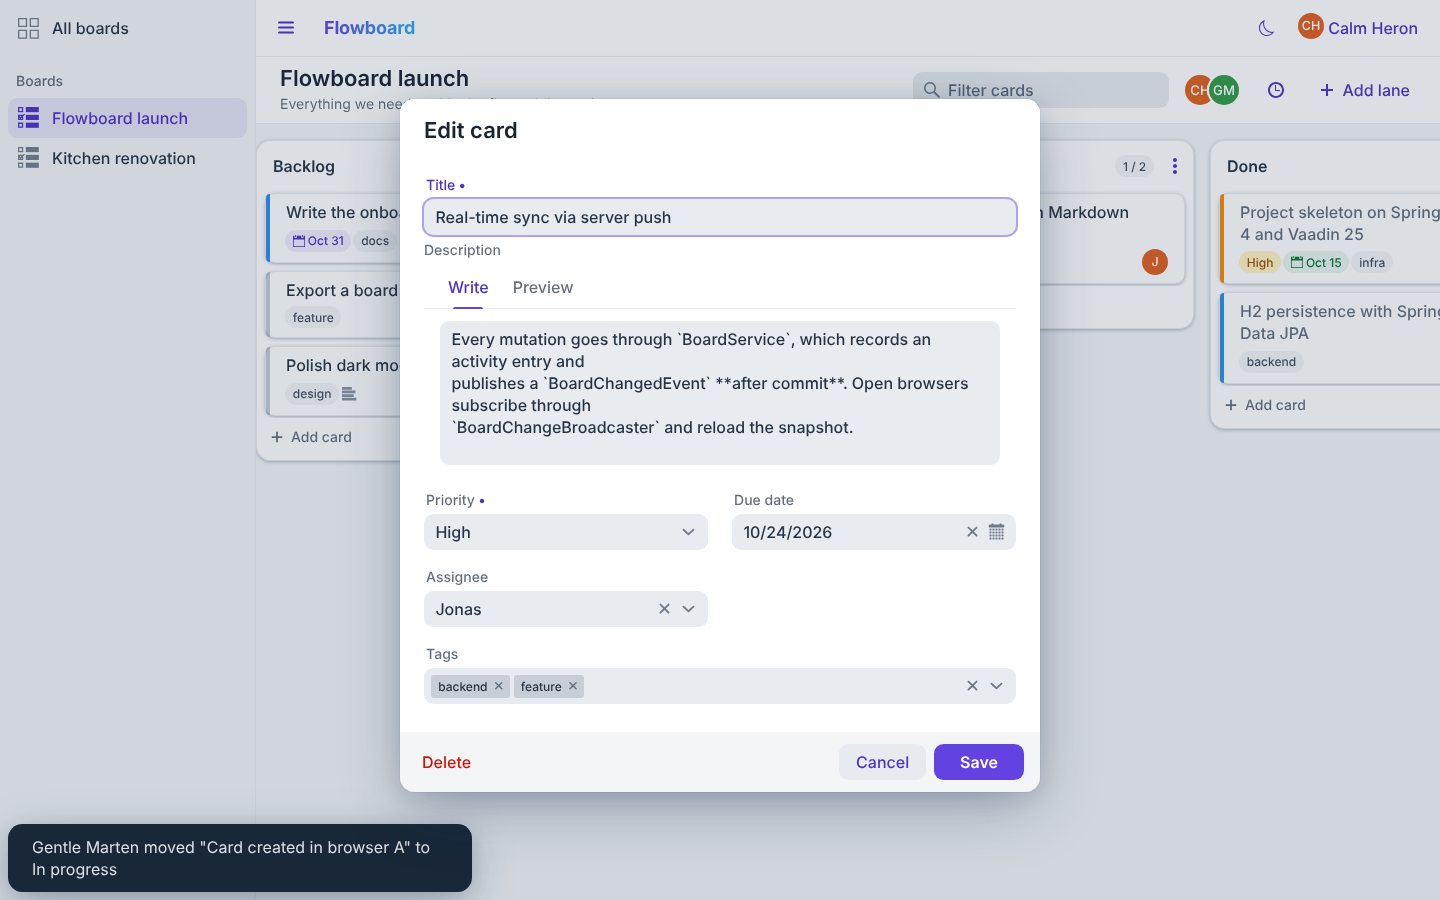
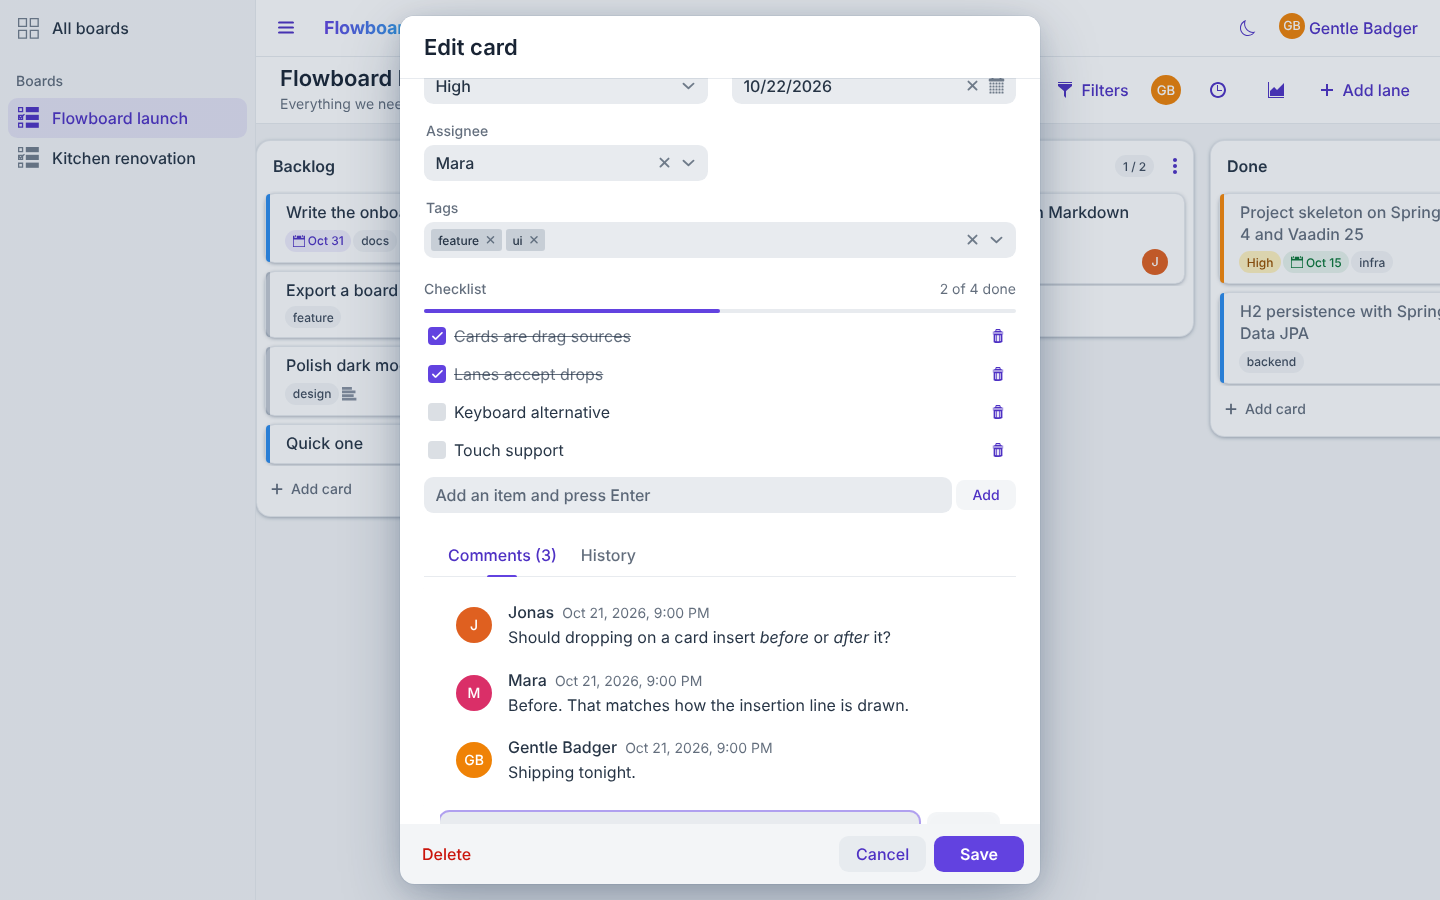
Add deep links to cards
board/{id}/card/{cardId} opens the card editor directly, the address
bar follows the open card, and the editor offers a copy-link action.

Claude-Session: https://claude.ai/code/session_01MrvthHf1AzktnPcG6NF27K

diff --git a/src/main/java/dev/gatzka/flowboard/ui/board/CardEditorDialog.java b/src/main/java/dev/gatzka/flowboard/ui/board/CardEditorDialog.java
@@ -12,6 +12,7 @@ import com.vaadin.flow.component.dialog.Dialog;
 import com.vaadin.flow.component.formlayout.FormLayout;
 import com.vaadin.flow.component.html.Div;
 import com.vaadin.flow.component.html.Span;
+import com.vaadin.flow.component.icon.VaadinIcon;
 import com.vaadin.flow.component.markdown.Markdown;
 import com.vaadin.flow.component.select.Select;
 import com.vaadin.flow.component.tabs.Tab;
@@ -27,6 +28,7 @@ import dev.gatzka.flowboard.domain.CardDraft;
 import dev.gatzka.flowboard.domain.CardSnapshot;
 import dev.gatzka.flowboard.domain.LaneSnapshot;
 import dev.gatzka.flowboard.domain.Priority;
+import dev.gatzka.flowboard.ui.support.Toasts;
 import java.util.ArrayList;
 import java.util.LinkedHashSet;
 import java.util.List;
@@ -49,6 +51,7 @@ final class CardEditorDialog extends Dialog {
     private final List<String> assigneeOptions;
     private final List<String> tagOptions;
     private final Consumer<CardDraft> onSave;
+    private final BoardSnapshot board;
     private Long cardId;
     private ChecklistSection checklistSection;
     private CommentsSection commentsSection;
@@ -97,6 +100,11 @@ final class CardEditorDialog extends Dialog {
     private void addCardSections(CardSnapshot card, CardEditorActions actions) {
         this.cardId = card.id();
         this.actions = actions;
+        Button copyLink = new Button(VaadinIcon.LINK.create(), event -> copyLink(card));
+        copyLink.addThemeVariants(ButtonVariant.LUMO_TERTIARY, ButtonVariant.LUMO_ICON);
+        copyLink.setAriaLabel("Copy link to this card");
+        copyLink.setTooltipText("Copy link");
+        getHeader().add(copyLink);
         checklistSection = new ChecklistSection(card, actions, this::refresh);
         commentsSection = new CommentsSection(card, actions, this::refresh);
         historySection = new HistorySection(actions.history(card.id()));
@@ -110,12 +118,19 @@ final class CardEditorDialog extends Dialog {
         add(checklistSection, tabs);
     }
 
+    private void copyLink(CardSnapshot card) {
+        String path = BoardView.pathTo(board.id(), card.id());
+        getUI().ifPresent(ui -> ui.getPage().executeJs("navigator.clipboard.writeText(location.origin + '/' + $0)", path));
+        Toasts.success("Link copied");
+    }
+
     private static String commentsLabel(CardSnapshot card) {
         return card.hasComments() ? "Comments (" + card.comments().size() + ")" : "Comments";
     }
 
     private CardEditorDialog(String heading, String saveLabel, BoardSnapshot board, Consumer<CardDraft> onSave) {
         this.onSave = onSave;
+        this.board = board;
         this.assigneeOptions = new ArrayList<>(board.assignees());
         this.tagOptions = new ArrayList<>(board.tags());
 

diff --git a/src/main/java/dev/gatzka/flowboard/ui/board/BoardView.java b/src/main/java/dev/gatzka/flowboard/ui/board/BoardView.java
@@ -22,6 +22,7 @@ import com.vaadin.flow.router.BeforeEnterEvent;
 import com.vaadin.flow.router.BeforeEnterObserver;
 import com.vaadin.flow.router.HasDynamicTitle;
 import com.vaadin.flow.router.Route;
+import com.vaadin.flow.router.RouteAlias;
 import com.vaadin.flow.shared.Registration;
 import dev.gatzka.flowboard.domain.ActivityEntry;
 import dev.gatzka.flowboard.domain.BoardSnapshot;
@@ -55,9 +56,11 @@ import java.util.function.Supplier;
  * whether through this user or through anybody else (via server push).
  */
 @Route("board/:boardId")
+@RouteAlias("board/:boardId/card/:cardId")
 public class BoardView extends VerticalLayout implements BeforeEnterObserver, HasDynamicTitle, BoardActions, CardEditorActions {
 
     public static final String BOARD_ID = "boardId";
+    public static final String CARD_ID = "cardId";
 
     private final BoardService boardService;
     private final ChecklistService checklistService;
@@ -157,6 +160,15 @@ public class BoardView extends VerticalLayout implements BeforeEnterObserver, Ha
             return;
         }
         render(found.get());
+        event.getRouteParameters().getLong(CARD_ID).ifPresent(cardId -> findCard(cardId).ifPresentOrElse(
+                this::openCard,
+                () -> Toasts.error("That card is not on this board any more")));
+    }
+
+    /** Path of this board, or of one of its cards when {@code cardId} is given. */
+    static String pathTo(long boardId, Long cardId) {
+        String boardPath = "board/" + boardId;
+        return cardId == null ? boardPath : boardPath + "/card/" + cardId;
     }
 
     @Override
@@ -290,10 +302,17 @@ public class BoardView extends VerticalLayout implements BeforeEnterObserver, Ha
         editor.addOpenedChangeListener(event -> {
             if (!event.isOpened() && openEditor == editor) {
                 openEditor = null;
+                showPath(pathTo(board.id(), null));
             }
         });
         openEditor = editor;
         editor.open();
+        showPath(pathTo(board.id(), card.id()));
+    }
+
+    /** Keeps the address bar in sync with the open card without triggering navigation. */
+    private void showPath(String path) {
+        getUI().ifPresent(ui -> ui.getPage().getHistory().replaceState(null, path));
     }
 
     @Override

diff --git a/src/test/java/dev/gatzka/flowboard/ui/board/BoardViewTest.java b/src/test/java/dev/gatzka/flowboard/ui/board/BoardViewTest.java
@@ -12,6 +12,7 @@ import com.vaadin.flow.component.contextmenu.MenuItem;
 import com.vaadin.flow.component.messages.MessageInput;
 import com.vaadin.flow.component.messages.MessageList;
 import com.vaadin.flow.component.messages.MessageListItem;
+import com.vaadin.flow.component.notification.Notification;
 import com.vaadin.flow.component.radiobutton.RadioButtonGroup;
 import com.vaadin.flow.component.tabs.TabSheet;
 import com.vaadin.flow.component.textfield.TextField;
@@ -279,6 +280,27 @@ class BoardViewTest extends SpringBrowserlessTest {
             roundTrip();
             assertThat(visibleCardTitles()).containsExactly("Added from another session");
         });
+    }
+
+    @Test
+    void cardDeepLinkOpensTheEditor() {
+        CardSnapshot created = createCard("Linked");
+
+        navigate(BoardView.pathTo(board.id(), created.id()), BoardView.class);
+
+        CardEditorDialog dialog = $(CardEditorDialog.class).single();
+        assertThat(dialog.isOpened()).isTrue();
+        assertThat(dialog.cardId()).contains(created.id());
+        assertThat($(TextField.class, dialog).withLabel("Title").single().getValue()).isEqualTo("Linked");
+    }
+
+    @Test
+    void deepLinkToMissingCardStillShowsTheBoard() {
+        navigate(BoardView.pathTo(board.id(), 424242L), BoardView.class);
+
+        assertThat($(CardEditorDialog.class).all()).isEmpty();
+        assertThat($(LaneComponent.class).all()).hasSize(4);
+        assertThat($(Notification.class).all()).isNotEmpty();
     }
 
     @Test
